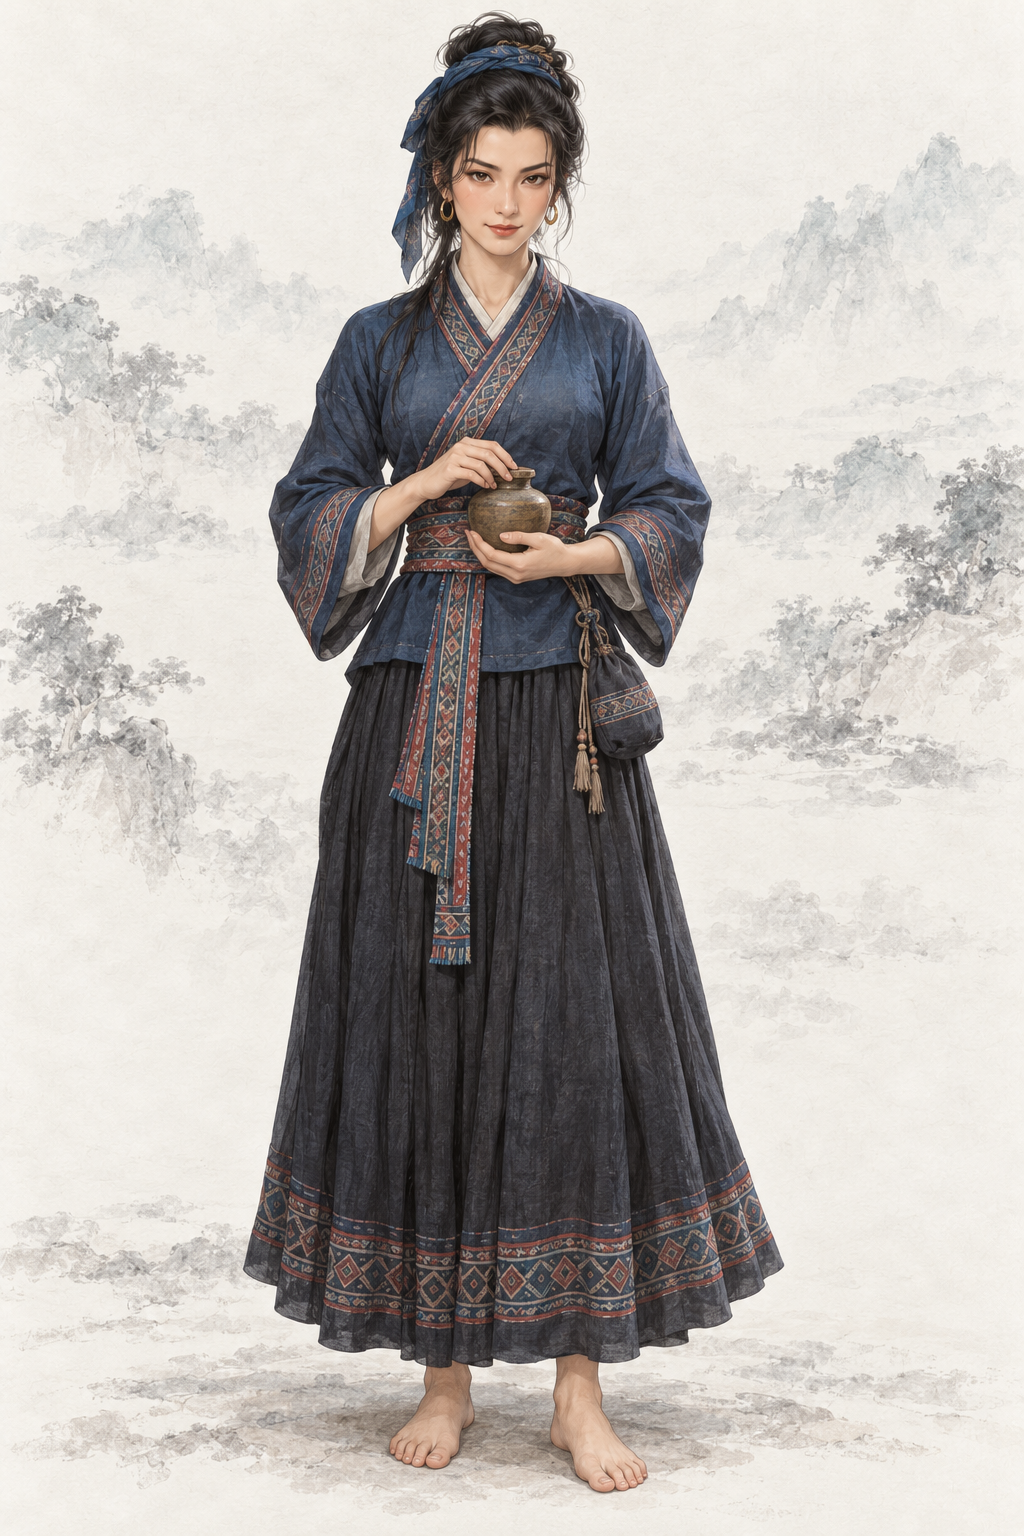
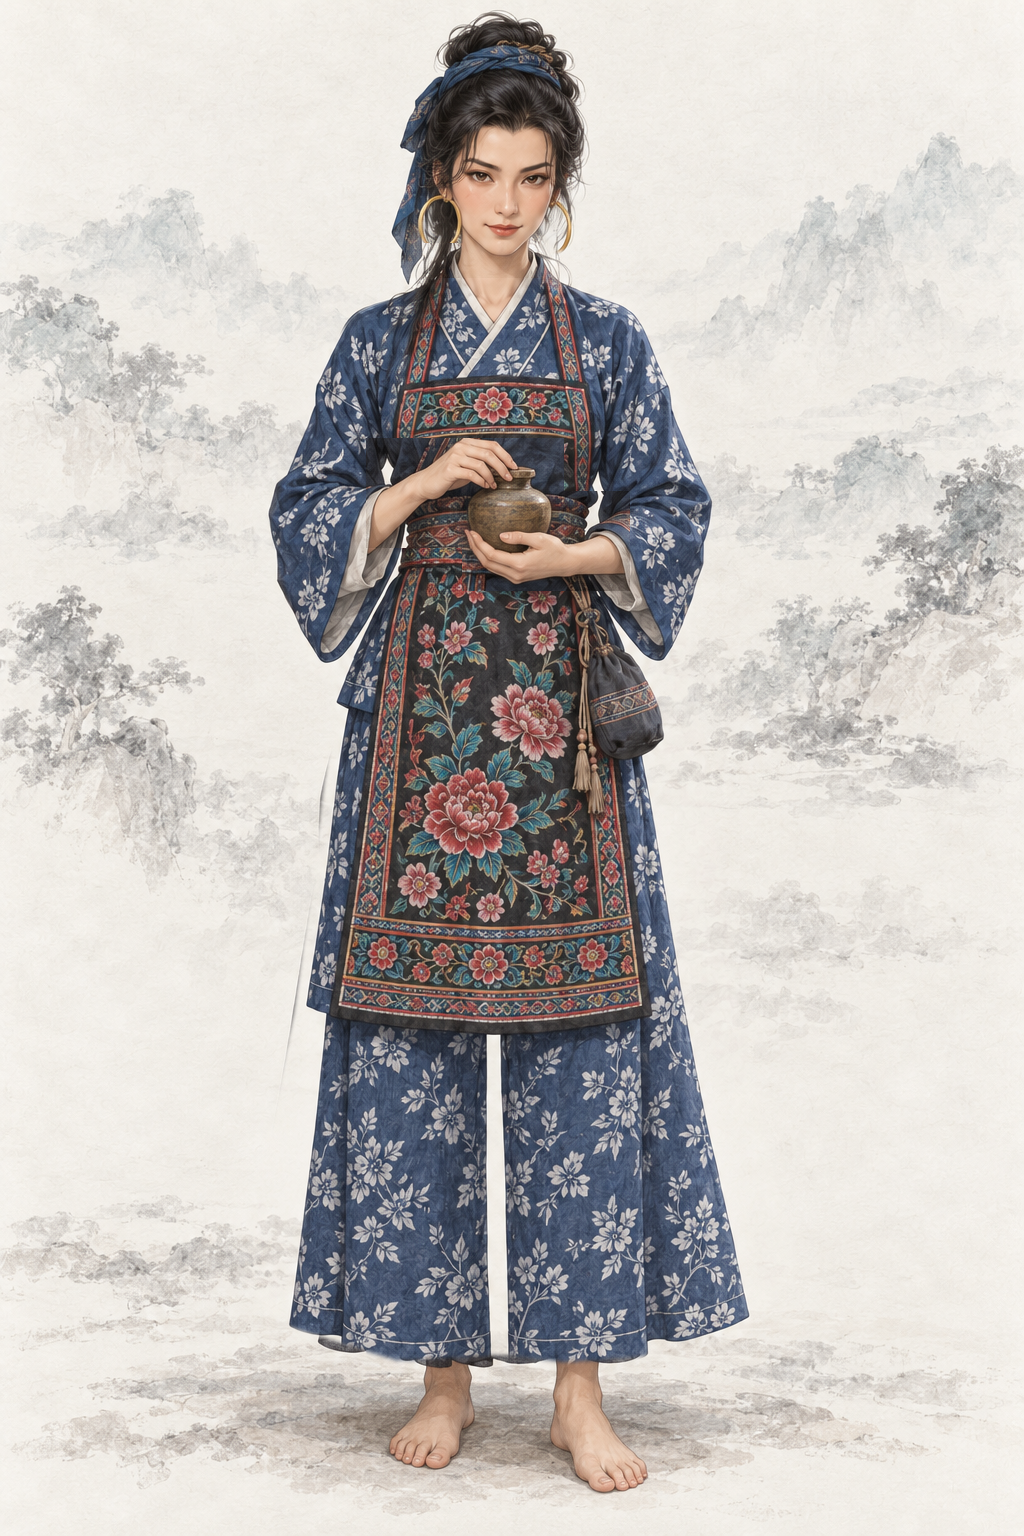
assets: AR-82 原著核对返修 蓝凤凰蓝底白花衫裤与绣花围裙、大金耳环
蓝凤凰蓝底白花衫裤与绣花围裙、大金耳环；原著摘句已同步提示词；蒙版外变化0像素。

Executed-By: Codex gpt-6.1-sol（AR-82）

Changed region(s): [[0.2188, 0.1875, 0.7812, 0.9062], [0.4062, 0.125, 0.4688, 0.1562], [0.5312, 0.125, 0.5625, 0.1562]]

diff --git a/assets/default/prompts/characters/ch05-xiaoao/npc_lanfenghuang.md b/assets/default/prompts/characters/ch05-xiaoao/npc_lanfenghuang.md
@@ -76,3 +76,9 @@ FINAL POSE CHECK: FRONT-FACING, head and neck naturally UPRIGHT, eyes HORIZONTAL
 - 采用作者授权宽松自查；偏差如实记录，candidate不代表approved。
 - 源PNG通常为1024×1536 RGB；其他原生2:3尺寸如实登记，原字节保存，不裁切、重编码、放大或去除溯源。
 - 完整请求、实际参考哈希及旧版本备份见 `.agents/coord/portrait-generation/identity-20261001/por_npc_lanfenghuang__ch05_youth_base.prepared.json`。
+
+## 原著依据
+
+- 《笑傲江湖》十六《注血》：“蓝布印白花衫裤，自胸至膝围一条绣花围裙”（https://xuges.com/WUXIA/jinyong/xajh/119.htm）
+- 《笑傲江湖》十六《注血》：“足有酒杯口大小”（https://xuges.com/WUXIA/jinyong/xajh/119.htm）
+- AR-82 返修约束：只换服饰并放大两侧金耳环：蓝布印白色花纹的上衫与长裤（清楚的两条裤腿，不是裙装），从胸口至膝盖单独系一条彩绣围裙，上缘在胸部，围裙不能只是腰带；保持原图头发蓝彩带、酒罐、双手和赤足原样。两耳金环放大到酒杯口大小，耳垂处悬挂大圆金环。不能改变脸部身份。
